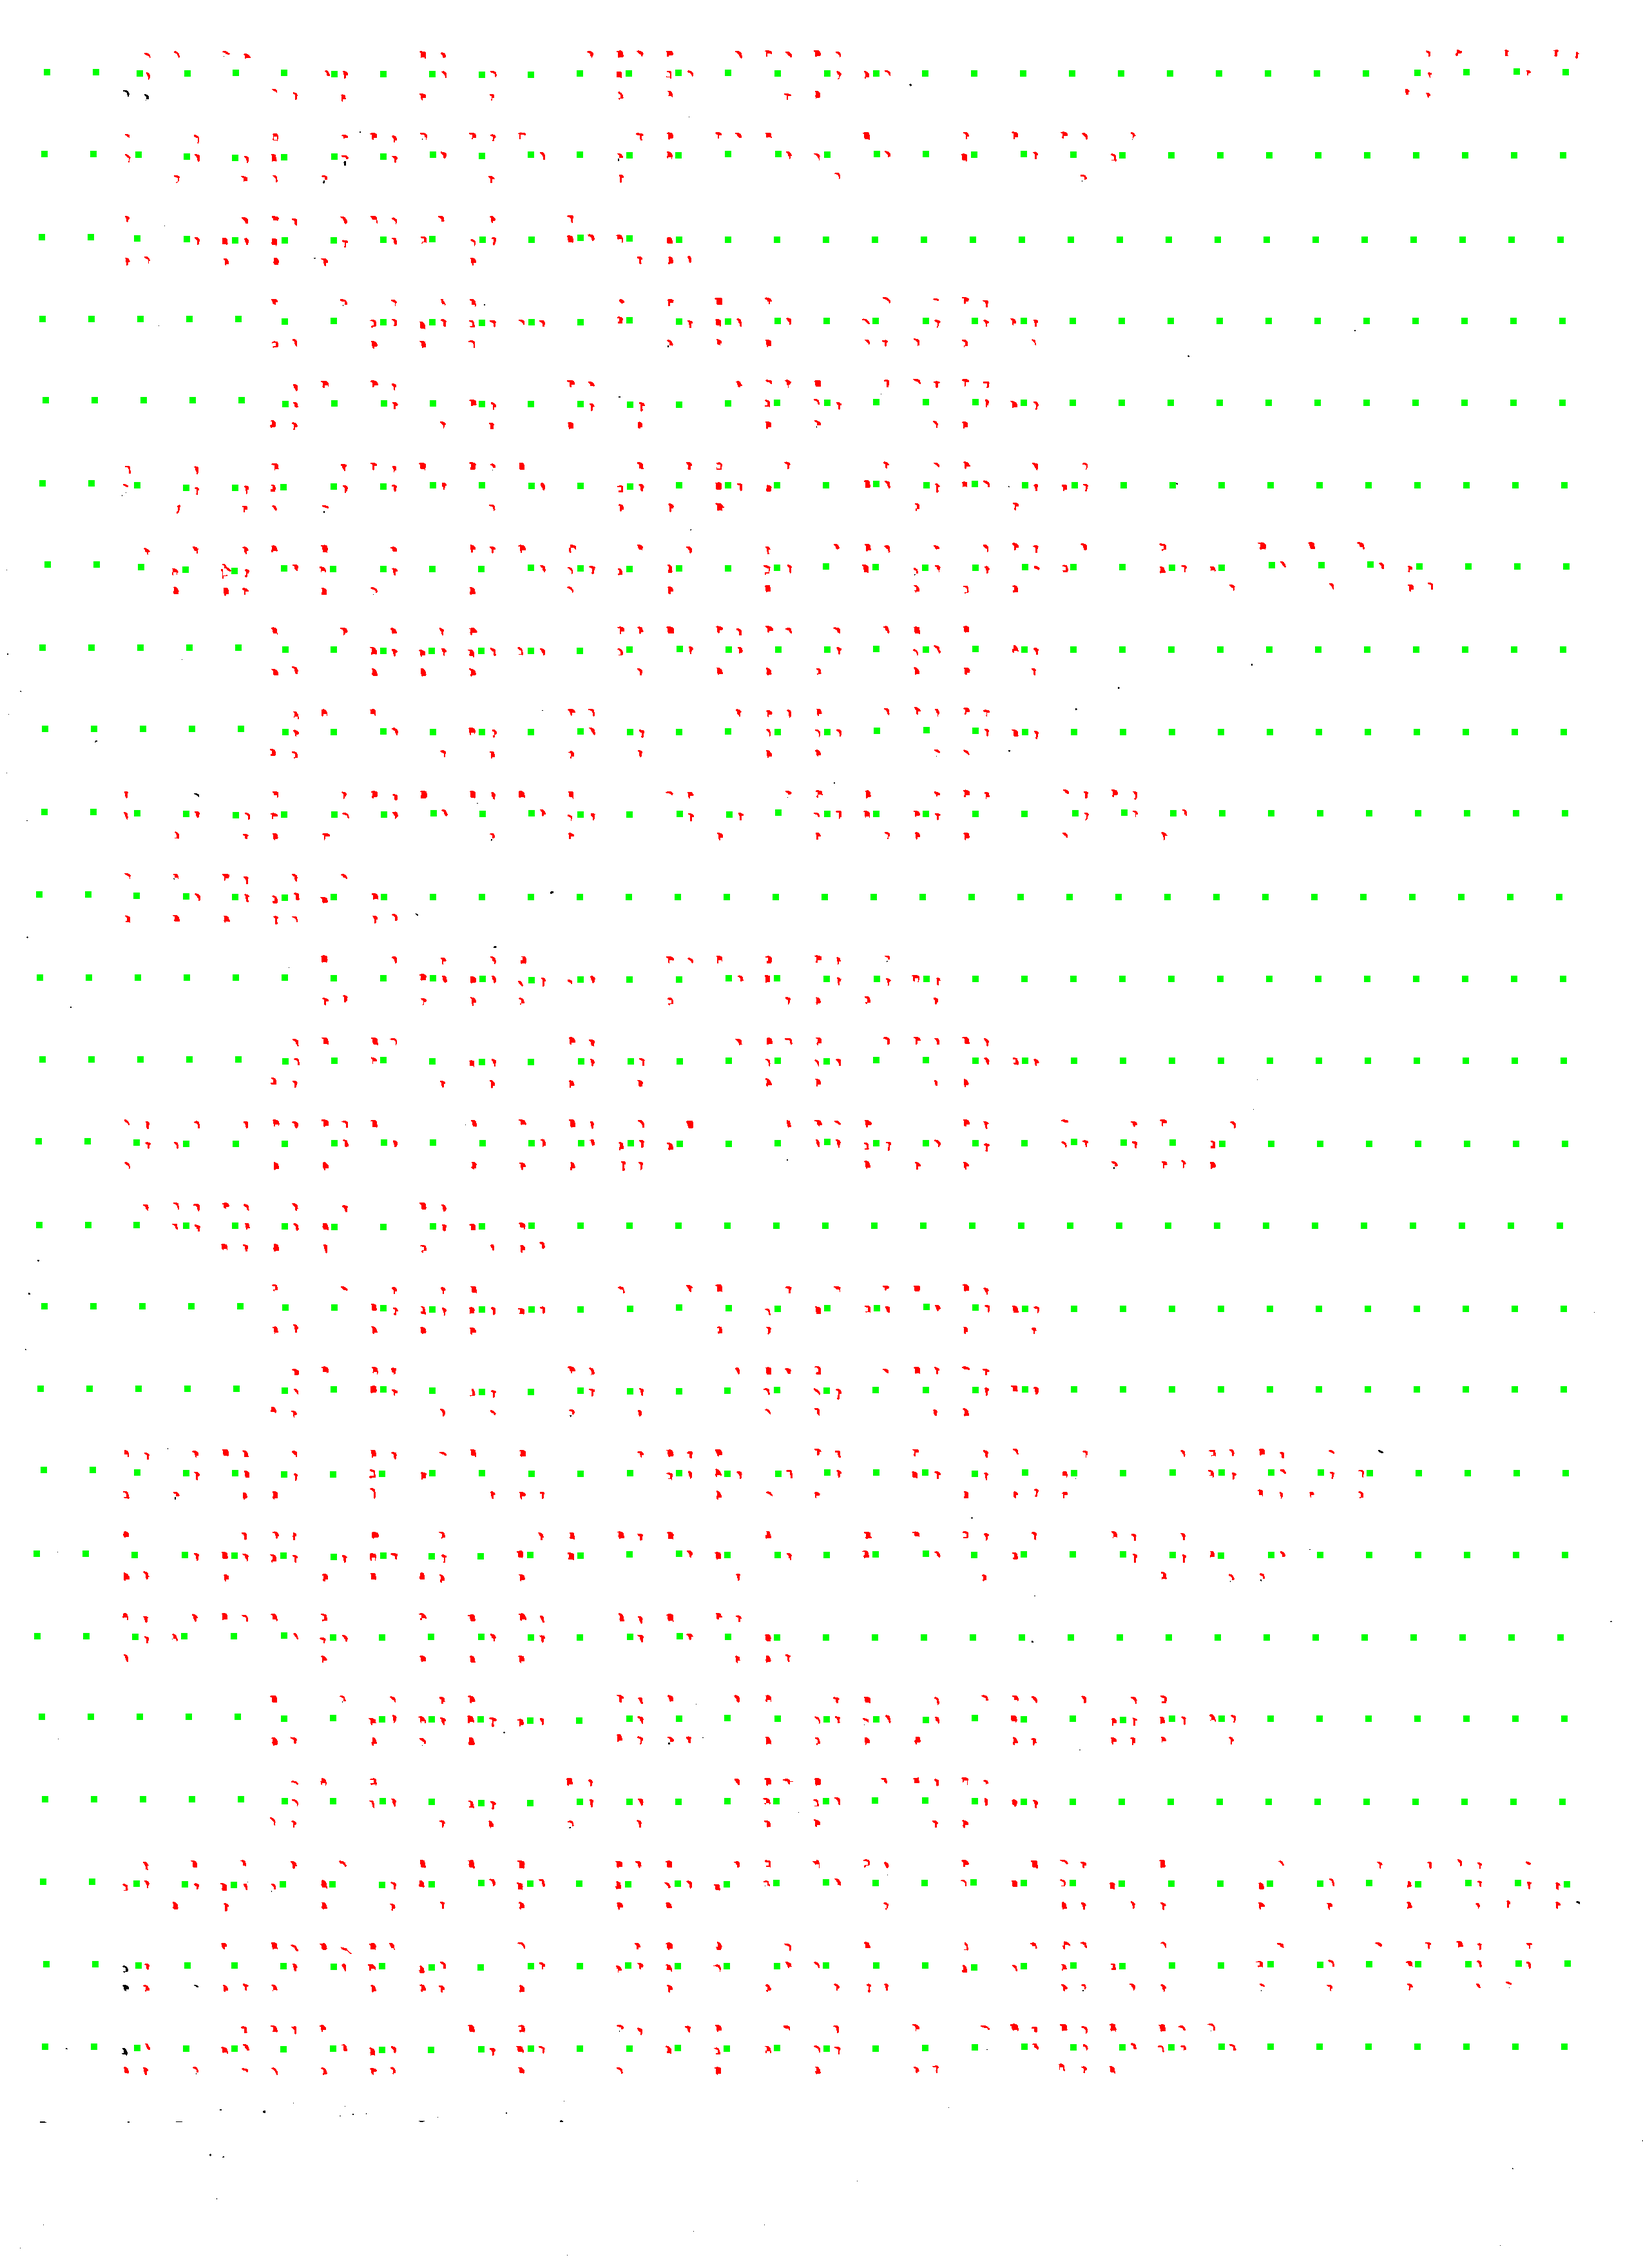
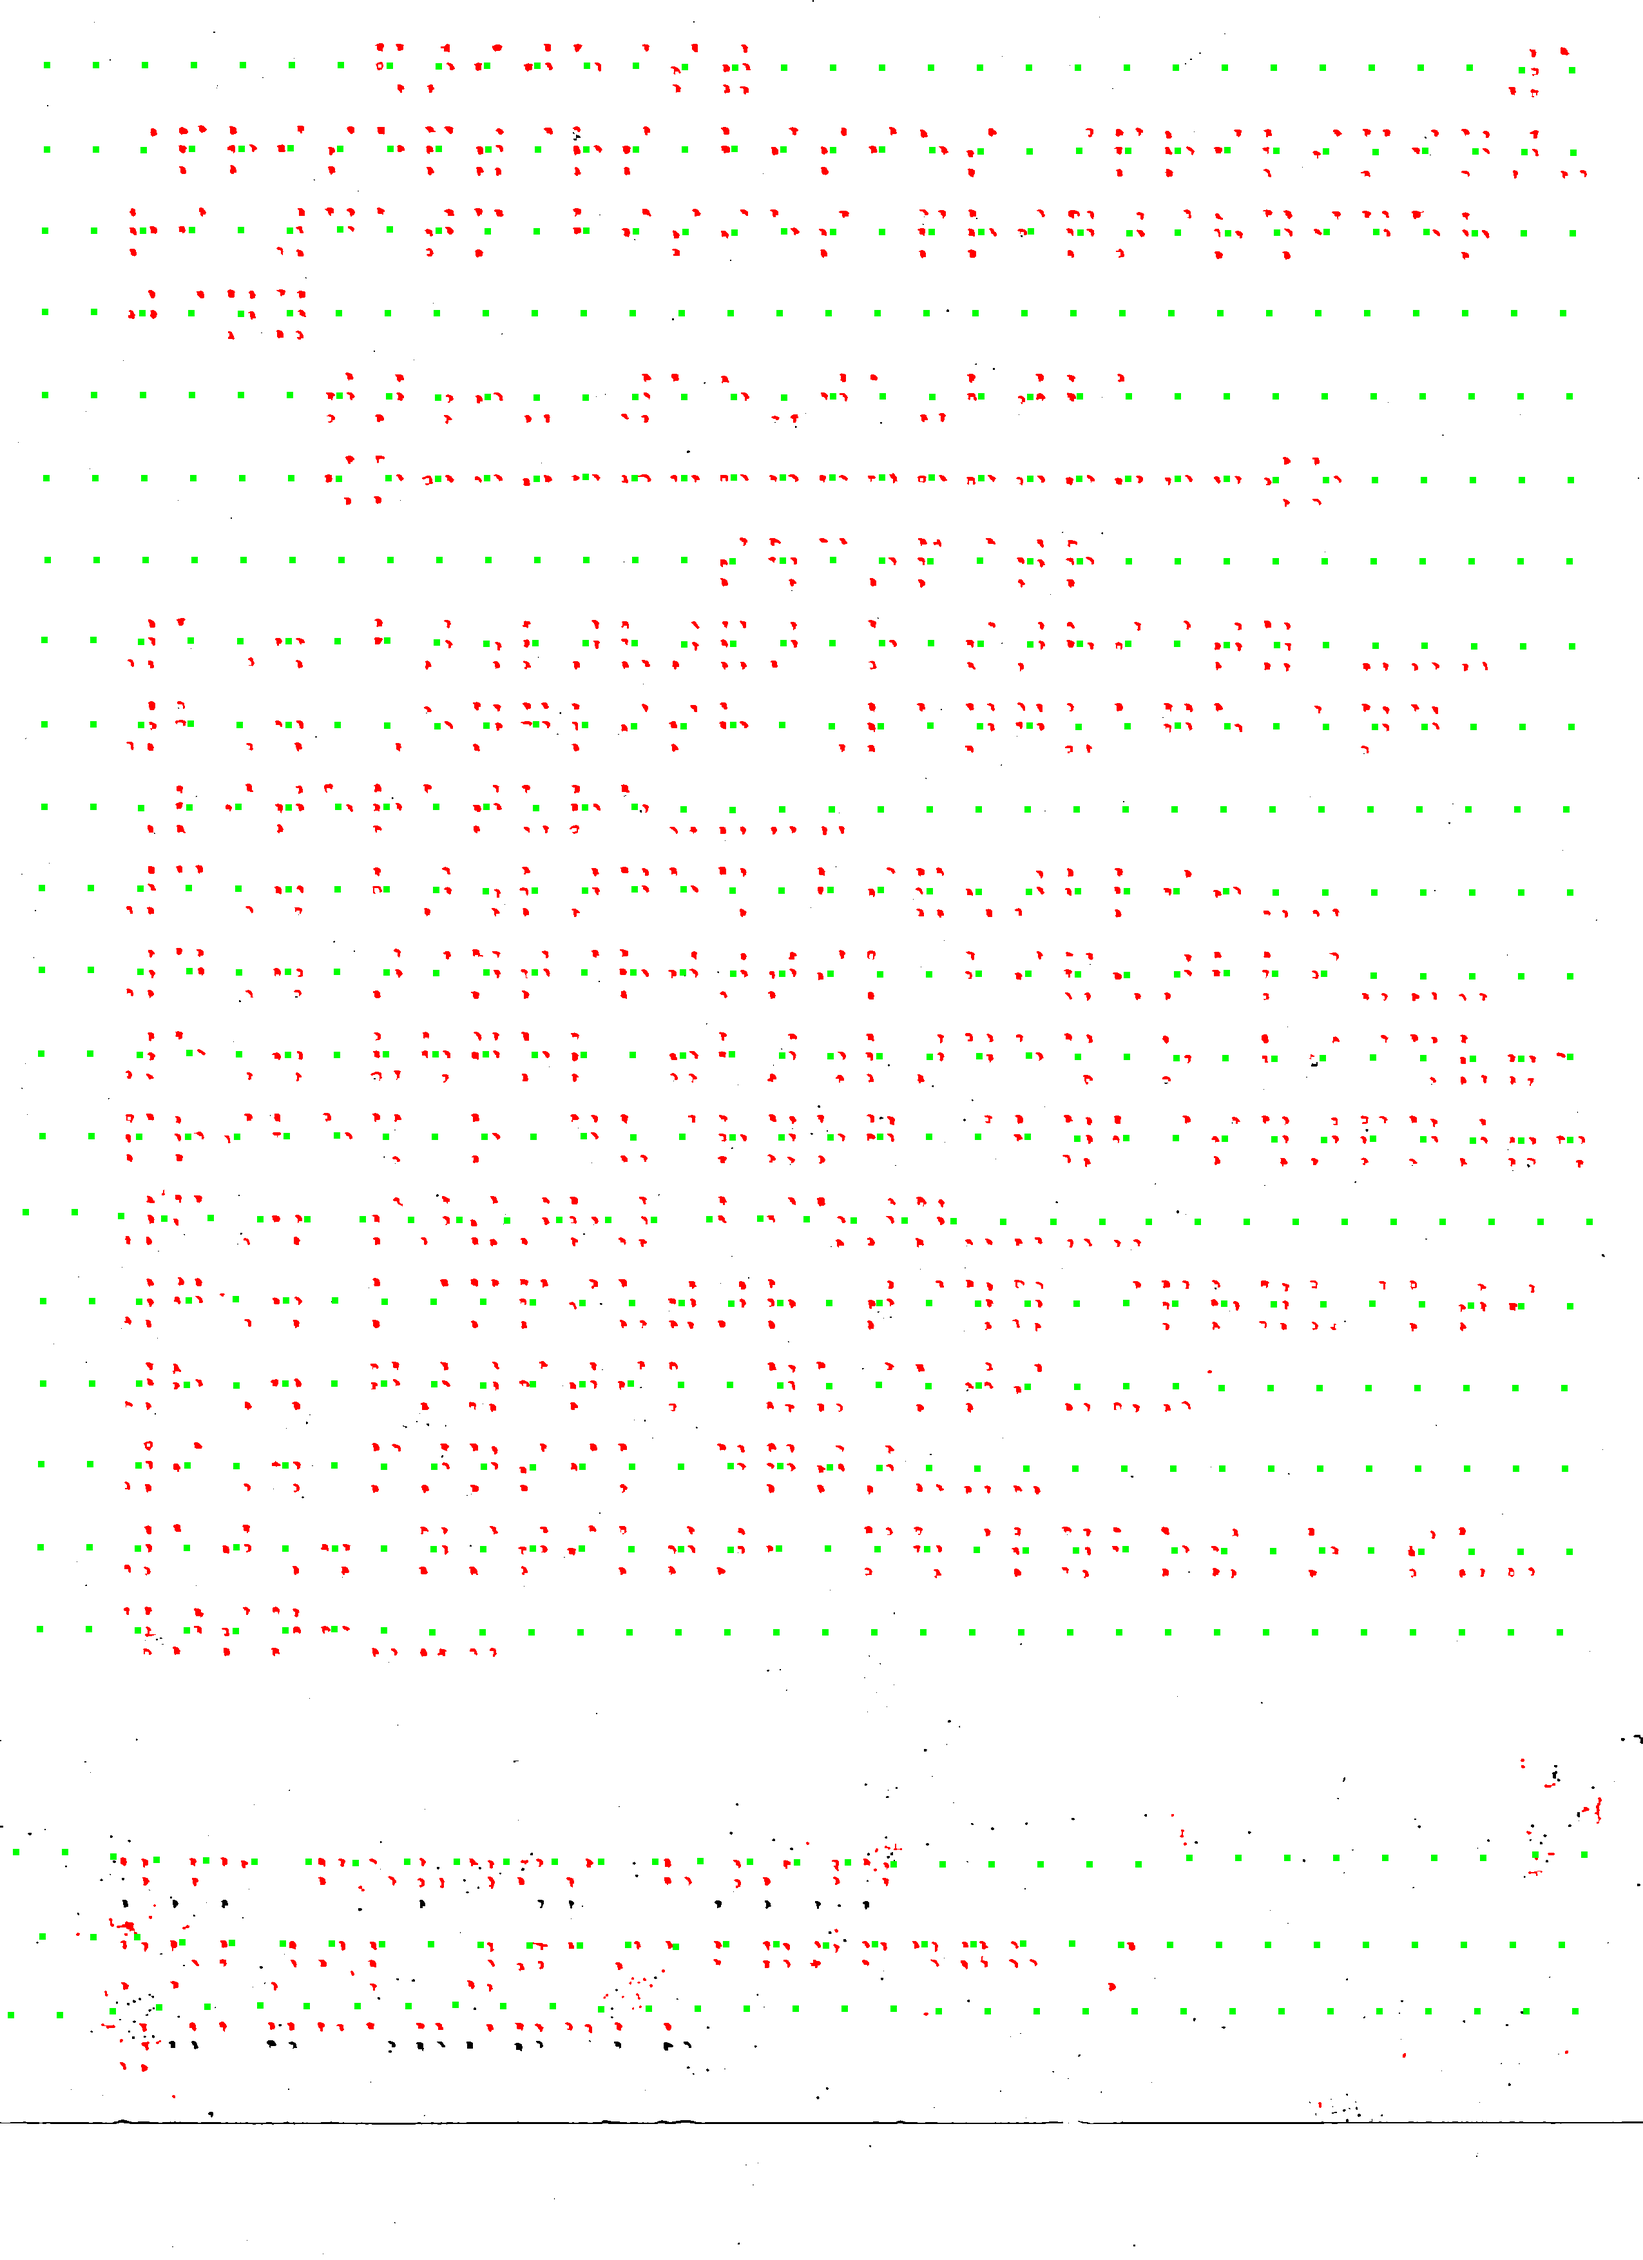
Add files via upload

diff --git a/Final strech/dotIdentifier.java b/Final strech/dotIdentifier.java
@@ -38,15 +38,15 @@ public class dotIdentifier {
         int width= image.getWidth();
         int blueP= 0xFF0000FF;
         int dCount=0;
-        for(int j=0;j<height;j++){
-            for(int i=0;i<width;i++){
+        for(int j=79;j<height-130;j++){
+            for(int i=195;i<width-79;i++){
                 if(j>=image.getHeight()) break;
                 int flag=0;
                 if(image2.getRGB(i,j)<=0xFFAAAAAA){
                     image2.setRGB(i,j,0xFF00FF00);
 
                     ArrayList<List> d=new ArrayList<>(floodFill(i,j,image2));
-                    if(d.size()>=25) {
+                    if(d.size()>=11) {
 
                         dCount++;
                         ArrayList<Integer> centers= new ArrayList<>(findDotCenter(d));
@@ -54,10 +54,10 @@ public class dotIdentifier {
                         int dotCenterY=centers.get(1);
                         ArrayList<Object> countForValidity= countValidity(dotCenterX,dotCenterY,imageToSave);
                         ArrayList<Integer> dd=(ArrayList<Integer>) countForValidity.get(0);
-//                        if(dd.get(0)<2){
-//                            j=j+15;
-//                            continue;
-//                        }
+                        if(dd.get(0)<2){
+                            j=j+15;
+                            continue;
+                        }
 
                         ArrayList<Integer> retCount=charFind(dotCenterX,dotCenterY);
 //                        if(retCount==null)j=j+10;
@@ -71,9 +71,15 @@ public class dotIdentifier {
                 }
             }
         }
+//        for(int i=0;i<lineList.size();i++){
+//            System.out.print(lineList.get(i)+" ");
+//        }
+//        System.out.println("--------------------------------------------------------------");
         int flag=0;
+        int countS=0;
         for(int i=0;i<lineList.size();i++){
-            if(lineList.get(i).equals("000000")){
+            if(lineList.get(i).equals("000000")==true){
+                countS++;
                 if(flag==0){
                     lineList.set(i,"space");
                     flag=1;
@@ -81,15 +87,27 @@ public class dotIdentifier {
                 else{
                     lineList.remove(i);
                 }
-            }else{
+            }
+            else{
                 flag=0;
             }
         }
-
+        int countSpace=0;
+        for(int i=0;i<lineList.size();i++){
+            if(lineList.get(i).equals("000000")){
+               lineList.remove(i);
+               i--;
+            }
+        }
+//        System.out.println(countSpace);
+//        System.out.println(countS);
+        for(int i=0;i<lineList.size();i++){
+            System.out.print(lineList.get(i)+" ");
+        }
         Convert objC= new Convert();
 //        objC.translate(lineList);
 
-        ImageIO.write(imageToSave , "png", new File("outputImage3.png"));
+        ImageIO.write(imageToSave , "png", new File("outputImage3new.png"));
 
     }
     ArrayList<List> floodFill(int x11,int y11,BufferedImage image2) {
@@ -229,10 +247,10 @@ public class dotIdentifier {
             }
         }
         ArrayList<Integer> trueCount=readLine(realCenterX,realCenterY,1);
-        System.out.println(count1.get(0)+" "+count1.get(1));
-        System.out.println(count2.get(0)+" "+count2.get(1));
+//        System.out.println(count1.get(0)+" "+count1.get(1));
+//        System.out.println(count2.get(0)+" "+count2.get(1));
 
-        System.out.println("\n");
+//        System.out.println("\n");
         return trueCount;
 
     }
@@ -281,7 +299,8 @@ public class dotIdentifier {
         ArrayList<Integer> counts=new ArrayList<>();
         counts.add(dotCount);
         counts.add(charCount);
-        lineList.add("\n");
+        if(lineList.isEmpty()==false)
+            lineList.add("\n");
         return counts;
     }
     void updateBottomMargin2(int y){
@@ -393,8 +412,8 @@ public class dotIdentifier {
     ArrayList<Integer> searchArea(int x, int y, BufferedImage image4) throws IOException {
 //        BufferedImage image4= new BufferedImage(image.getWidth(),image.getHeight(), BufferedImage.TYPE_3BYTE_BGR);
 //        image4.getGraphics().drawImage(image, 0, 0, null);
-        for(int i=-9;i<=9;i++){
-            for(int j=-9;j<=9;j++){
+        for(int i=-12;i<=12;i++){
+            for(int j=-12;j<=12;j++){
 
                 int x1=x+i;
                 int y1=y+j;
@@ -403,7 +422,7 @@ public class dotIdentifier {
                 if(image4.getRGB(x1,y1)<0xFFAAAAAA){
                     ArrayList<List> aList=new ArrayList<>(floodFill(x1,y1,image4));
 
-                    if(aList.size()>=25){
+                    if(aList.size()>=11){
                         for(int k=0;k<aList.size();k++){
                             imageToSave.setRGB((int)aList.get(k).get(0),(int)aList.get(k).get(1),0xFFFF0000);
                         }

diff --git a/Final strech/ImageRead.java b/Final strech/ImageRead.java
@@ -11,7 +11,7 @@ public class ImageRead {
     public BufferedImage ImageRead2(){
         BufferedImage image=null;
         try {
-            File input = new File("edit399.png");
+            File input = new File("edit32.png");
             image = ImageIO.read(input);
             BufferedImage image1= new BufferedImage(image.getWidth(),image.getHeight(), BufferedImage.TYPE_3BYTE_BGR);
             image1.getGraphics().drawImage(image, 0, 0, null);

diff --git a/Final strech/Mapper/Convert.java b/Final strech/Mapper/Convert.java
@@ -93,6 +93,7 @@ public class Convert {
     public String convert(List<String> word){
         String bangla = "";
         firstletter = true;
+
         for (String x : word) {
             bangla += map_value(x);
             if(firstletter == true) firstletter = false;
